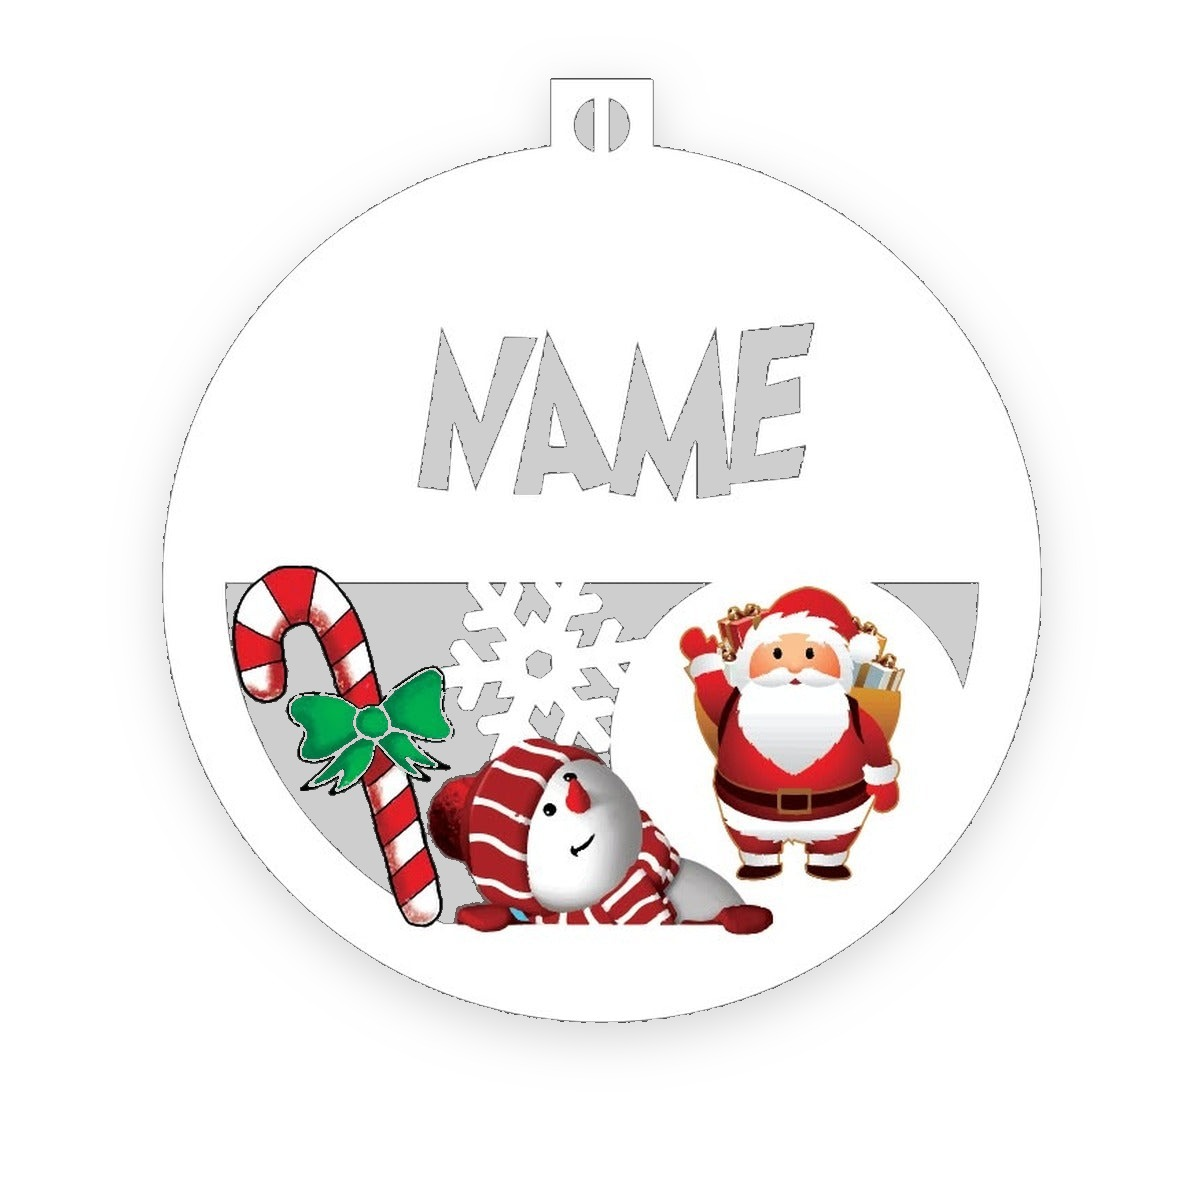
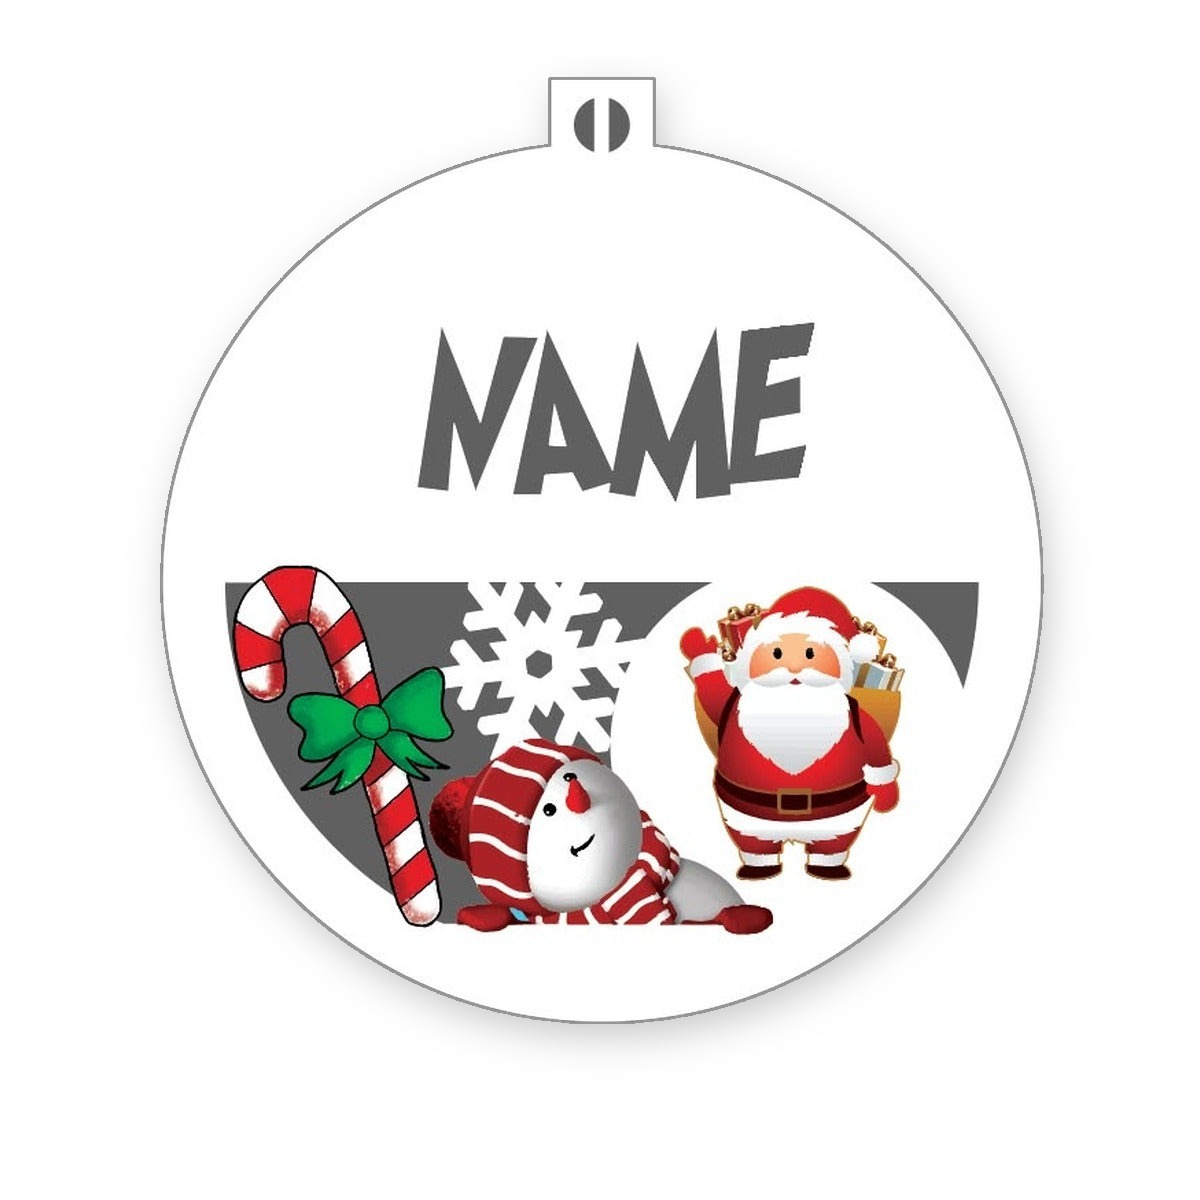
Elle.ay ornament: white-background Santa & snowman and Your photo that stay readable
Claude-Session: https://claude.ai/code/session_01FujJPPNCscY6tjACdcfNtP

diff --git a/clients/lara-store/CONTEXT.md b/clients/lara-store/CONTEXT.md
@@ -38,4 +38,4 @@ Store: kc30cj-dq.myshopify.com
 - Ornament: owner says Santa & snowman and Your photo pictures are "not correct" (the other 3 white versions are good); asked what's wrong.
 - 2026-11-08: Owner asked to 'generate' the missing smART photos (black alone; sharper dark green). No image generator available, so I recoloured the Etoupe photo: leather mask (warm pixels, cleaned, main body only, plus top-seam highlights), luminance-preserving recolour to black (54,53,56) and dark green (53,60,55, sampled from the old dark-green photo), lock and zip neutralised. Saved photos/smart/smart-black.jpg and smart-dark-green-new.jpg (1500×2000). Sent to owner for approval; not uploaded yet.
 
-- 2026-11-08: Christmas ornament: Santa & snowman (white ornament) and Your photo (white drawings) became unreadable on a white background, so both were restored to the grey originals (`photos/ornaments/*-grey.jpg`), still linked to their variants. The other 3 designs stay on white. The owner also sent a "your image" wreath mockup on black, which is not on the store yet.
+- 2026-11-08: Christmas ornament: Santa & snowman (white ornament) and Your photo (white drawings) became unreadable on a white background, so they were briefly reverted to grey. The owner wants white for all, so they were remade: white background outside the ornament, the ornament's own grey areas kept (Santa: grey cut-outs plus an outline and shadow; Your photo: grey disc with white drawings). Files are `photos/ornaments/*-white.jpg`, still linked to their variants. **All 5 designs are on white.** The owner also sent a "your image" wreath mockup on black, which is not on the store yet.
